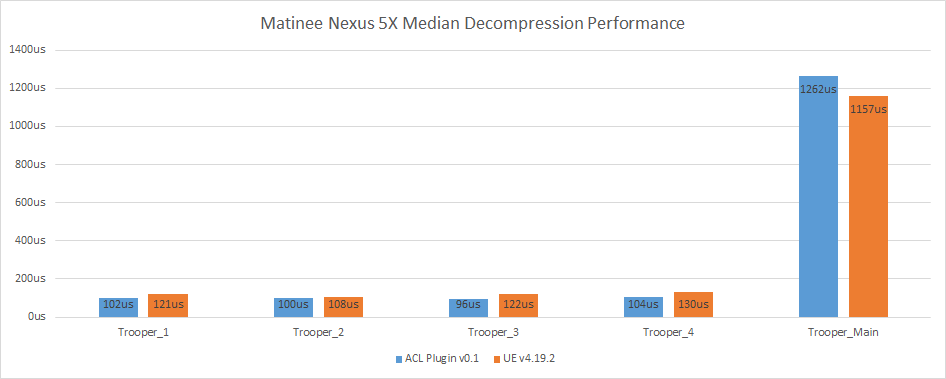
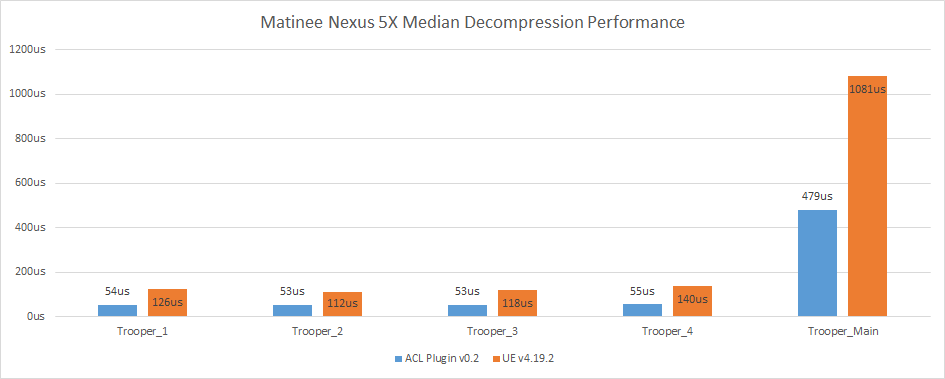
Updating stats and graphs.

diff --git a/Docs/paragon_performance.md b/Docs/paragon_performance.md
@@ -1,19 +1,22 @@
 # Paragon database performance
 
-|                   | ACL Plugin v0.1.0 | UE v4.19.2     |
-| -------               | --------      | --------       |
-| **Compressed size**   | 226.02 MB     | 392.97 MB      |
-| **Compression ratio** | 18.92 : 1     | 10.88 : 1      |
-| **Max ACL error**     | 0.8590 cm     | 0.8619 cm      |
-| **Max UE4 error**     | 0.8566 cm     | 0.6424 cm      |
-| **Compression time**  | 6h 35m 03.24s | 15h 10m 23.56s |
+|                   | ACL Plugin v0.2.0 | ACL Plugin v0.1.0 | UE v4.19.2     |
+| -------               | --------      | --------       | -------               |
+| **Compressed size**   | 226.09 MB | 226.02 MB     | 392.97 MB      |
+| **Compression ratio** | 18.91 : 1 | 18.92 : 1     | 10.88 : 1      |
+| **Compression time**  | 6h 04m 18.21s | 6h 35m 03.24s | 15h 10m 23.56s |
+| **Compression speed** | 200.32 KB/sec | 184.73 KB/sec | 80.16 KB/sec |
+| **Max ACL error**     | 0.8590 cm | 0.8590 cm     | 0.8619 cm      |
+| **Max UE4 error**     | 0.8566 cm | 0.8566 cm     | 0.6424 cm      |
+| **ACL Error 99<sup>th</sup> percentile** | 0.0116 cm | 0.0116 cm | 0.0328 cm |
+| **Samples below ACL error threshold** | 98.85 % | 98.85 % | 84.88 % |
 
 ACL was smaller for **6413** clips (**97.79 %**)  
-ACL was more accurate for **4972** clips (**75.82 %**)  
-ACL has faster compression for **5948** clips (**90.70 %**)  
-ACL was smaller, better, and faster for **4499** clips (**68.60 %**)  
+ACL was more accurate for **4977** clips (**75.89 %**)  
+ACL has faster compression for **6047** clips (**92.21 %**)  
+ACL was smaller, better, and faster for **4561** clips (**69.55 %**)  
 
-Would the *ACL Plugin* have been included in the *Automatic Compression* permutations tried, it would have won for **6098** clips (**92.99 %**)
+Would the *ACL Plugin* have been included in the *Automatic Compression* permutations tried, it would have won for **6100** clips (**93.02 %**)
 
 ## Data and method used
 
@@ -21,7 +24,7 @@ To compile these statistics, a large number of animations from [Paragon](https:/
 In October 2017 the animations were manually extracted and converted to the [ACL file format](https://github.com/nfrechette/acl/blob/develop/docs/the_acl_file_format.md) losslessly. The data is sadly **NOT** available upon request.
 Epic has permitted [Nicholas Frechette](https://github.com/nfrechette) to use them for research purposes only under a non-disclosure agreement.
 
-**Note: Epic has since released Paragon assets publicly in early 2018, once I get around to it, it will be extracted and made available along with updated stats.**
+**Note: Epic has since released Paragon assets publicly in early 2018, once I get around to it, it will be extracted along with updated stats.**
 
 *  Number of clips: **6558**
 *  Total duration: **7h 00m 45.27s**
@@ -37,8 +40,8 @@ The data set contains among other things:
 *  Lots of 3D scale
 *  Lots of other exotic clips
 
-To measure and extract the compression statistics, the provided [commandlet](../ACLPlugin/Source/ACLPlugin/Classes/ACLStatsDumpCommandlet.h) is used.
+To measure and extract the compression statistics, the provided [commandlet](../ACLPlugin/Source/ACLPlugin/Classes/ACLStatsDumpCommandlet.h) is used along with a [python script](../Tools/stat_parser.py) to parse the results.
 
-The *ACL Plugin* uses the default settings while *UE4* uses the *Automatic Compression* with an error threshold (master tolerance) of **0.1 cm**.
+The *ACL Plugin* uses the default settings with an error threshold of **0.01cm** while *UE4* uses the *Automatic Compression* with an error threshold (master tolerance) of **0.1 cm**. Both error thresholds used are suitable for production use. The **99th** percentile and the number of samples below the ACL error threshold are calculated by measuring the error with ACL on every bone at every sample.
 
 *ACL* and *UE4* both use separate methods to measure the error and both values are shown for transparency.

diff --git a/Docs/cmu_performance.md b/Docs/cmu_performance.md
@@ -1,12 +1,15 @@
 # Carnegie-Mellon University database performance
 
-|                 | ACL Plugin v0.1.0 | UE v4.19.2    |
-| -------                | --------   | --------      |
-| **Compressed size**    | 70.60 MB   | 99.94 MB      |
-| **Compression ratio**  | 20.25 : 1  | 14.30 : 1     |
-| **Max ACL error**      | 0.0703 cm  | 0.1520 cm     |
-| **Max UE4 error**      | 0.0722 cm  | 0.0996 cm     |
-| **Compression time**   | 34m 30.51s | 1h 27m 40.15s |
+|                 | ACL Plugin v0.2.0 | ACL Plugin v0.1.0 | UE v4.19.2    |
+| -------                | --------   | --------      | --------      |
+| **Compressed size**    | 70.64 MB | 70.60 MB   | 99.94 MB      |
+| **Compression ratio**  | 20.23 : 1 | 20.25 : 1  | 14.30 : 1     |
+| **Compression time**   | 31m 40.87s | 34m 30.51s | 1h 27m 40.15s |
+| **Compression speed**  | 770.01 KB/sec | 706.92 KB/sec | 278.26 KB/sec |
+| **Max ACL error**      | 0.0703 cm | 0.0703 cm  | 0.1520 cm     |
+| **Max UE4 error**      | 0.0722 cm | 0.0722 cm  | 0.0996 cm     |
+| **ACL Error 99<sup>th</sup> percentile** | 0.0089 cm | 0.0089 cm | 0.0271 cm |
+| **Samples below ACL error threshold** | 99.94 % | 99.94 % | 49.34 % |
 
 ACL was smaller for **2532** clips (**99.92 %**)  
 ACL was more accurate for **2486** clips (**98.11 %**)  
@@ -26,8 +29,8 @@ They were converted to the [ACL file format](the_acl_file_format.md) using the [
 *  Total duration: **9h 49m 37.58s**
 *  Raw size: **1429.38 MB** (10x float32 * num bones * num samples)
 
-To measure and extract the compression statistics, the provided [commandlet](../ACLPlugin/Source/ACLPlugin/Classes/ACLStatsDumpCommandlet.h) is used.
+To measure and extract the compression statistics, the provided [commandlet](../ACLPlugin/Source/ACLPlugin/Classes/ACLStatsDumpCommandlet.h) is used along with a [python script](../Tools/stat_parser.py) to parse the results.
 
-The *ACL Plugin* uses the default settings while *UE4* uses the *Automatic Compression* with an error threshold (master tolerance) of **0.1 cm**.
+The *ACL Plugin* uses the default settings with an error threshold of **0.01cm** while *UE4* uses the *Automatic Compression* with an error threshold (master tolerance) of **0.1 cm**. Both error thresholds used are suitable for production use. The **99th** percentile and the number of samples below the ACL error threshold are calculated by measuring the error with ACL on every bone at every sample.
 
 *ACL* and *UE4* both use separate methods to measure the error and both values are shown for transparency.

diff --git a/Docs/fight_scene_performance.md b/Docs/fight_scene_performance.md
@@ -1,12 +1,15 @@
 # Matinee fight scene performance
 
-|               | ACL Plugin v0.1.0 | UE v4.19.2 |
-| -------               | --------  | --------   |
-| **Compressed size**   | 8.67 MB   | 23.67 MB   |
-| **Compression ratio** | 7.20 : 1  | 2.63 : 1   |
-| **Max ACL error**     | 0.0620 cm | 0.0671 cm  |
-| **Max UE4 error**     | 0.0674 cm | 0.0672 cm  |
-| **Compression time**  | 52.44s    | 54m 03.18s |
+|               | ACL Plugin v0.2.0 | ACL Plugin v0.1.0 | UE v4.19.2 |
+| -------               | --------  | --------   | -------               |
+| **Compressed size**   | 8.67 MB | 8.67 MB   | 23.67 MB   |
+| **Compression ratio** | 7.20 : 1 | 7.20 : 1  | 2.63 : 1   |
+| **Compression time**  | 48.42s | 52.44s    | 54m 03.18s |
+| **Compression speed** | 1319.21 KB/sec | 1217.99 KB/sec | 19.70 KB/sec |
+| **Max ACL error**     | 0.0620 cm | 0.0620 cm | 0.0671 cm  |
+| **Max UE4 error**     | 0.0678 cm | 0.0674 cm | 0.0672 cm  |
+| **ACL Error 99<sup>th</sup> percentile** | 0.0255 cm | 0.0255 cm | 0.0161 cm |
+| **Samples below ACL error threshold** | 95.06 % | 95.05 % | 94.22 % |
 
 ACL was smaller for **1** clip (**20 %**)  
 ACL was more accurate for **2** clips (**40 %**)  
@@ -24,9 +27,9 @@ To compile these statistics, the [Matinee fight scene](http://nfrechette.github.
 *  Cinematic duration: **66 seconds**
 *  *Troopers* 1-4 have **71** bones and the *Main Trooper* has **551** bones
 
-To measure and extract the compression statistics, the provided [commandlet](../ACLPlugin/Source/ACLPlugin/Classes/ACLStatsDumpCommandlet.h) is used.
+To measure and extract the compression statistics, the provided [commandlet](../ACLPlugin/Source/ACLPlugin/Classes/ACLStatsDumpCommandlet.h) is used along with a [python script](../Tools/stat_parser.py) to parse the results.
 
-The *ACL Plugin* uses the default settings while *UE4* uses the *Automatic Compression* with an error threshold (master tolerance) of **0.1 cm**.
+The *ACL Plugin* uses the default settings with an error threshold of **0.01cm** while *UE4* uses the *Automatic Compression* with an error threshold (master tolerance) of **0.1 cm**. Both error thresholds used are suitable for production use. The **99th** percentile and the number of samples below the ACL error threshold are calculated by measuring the error with ACL on every bone at every sample.
 
 *ACL* and *UE4* both use separate methods to measure the error and both values are shown for transparency.
 

diff --git a/Docs/decompression_performance.md b/Docs/decompression_performance.md
@@ -6,13 +6,13 @@
 
 ![Playground i7 Median Performance](Images/acl_plugin_decomp_i7_playground.png)
 
-## Google Nexus 5X @ 1.8 GHz (armv7-a)
+## Google Nexus 5X @ 1.8 GHz (arm64)
 
 ![Matinee 5X Median Performance](Images/acl_plugin_decomp_5x_matinee.png)
 
 ![Playground 5X Median Performance](Images/acl_plugin_decomp_5x_playground.png)
 
-## Samsung S8 @ 2.3 GHz (armv7-a)
+## Samsung S8 @ 2.3 GHz (arm64)
 
 ![Matinee S8 Median Performance](Images/acl_plugin_decomp_s8_matinee.png)
 
@@ -20,13 +20,18 @@
 
 ## Data and method used
 
-In order to extract the decompression performance statistics, *UAnimSequence* is instrumented to output in the log how long it takes to sample every track. You can enable the logging by setting the define `ACL_ENABLE_UE4_DECOMP_STAT_LOGGING` to **1**.
+In order to extract the decompression performance statistics, *UAnimSequence* is instrumented to output in the log how long it takes to sample everything. You can enable the logging by setting the define `ACL_ENABLE_UE4_DECOMP_STAT_LOGGING` to **1**.
 
 A simple [python script](../Tools/clean_log.py) is then used to clean up the log and generate a CSV file.
 
 Two scenarios are tracked:
 
-*  [The matinee fight scene](https://github.com/nfrechette/acl/blob/develop/docs/fight_scene_performance.md)
+*  [The Matinee fight scene](https://github.com/nfrechette/acl/blob/develop/docs/fight_scene_performance.md)
 *  A [playground](./README.md#acl-plugin-playground) with every animation of the [animation starter pack](https://www.unrealengine.com/marketplace/animation-starter-pack) playing simultaneously
 
-All the performance metrics were extracted with a **Development** build. This might be a bit slower than the performance you might see under a **Shipping** configuration.
+All the performance metrics were extracted with a **Development** build. This might be a bit slower than the performance you might see under a **Shipping** configuration but not by much.
+
+The playground represents a worst case for ACL because the skeleton used discards almost every translation from the animation sequences taking it instead from the skeleton. This forces ACL to perform some unnecessary work.
+
+On the other hand, the Matinee fight scene shows how well ACL scales when the number of bones increases.
+
